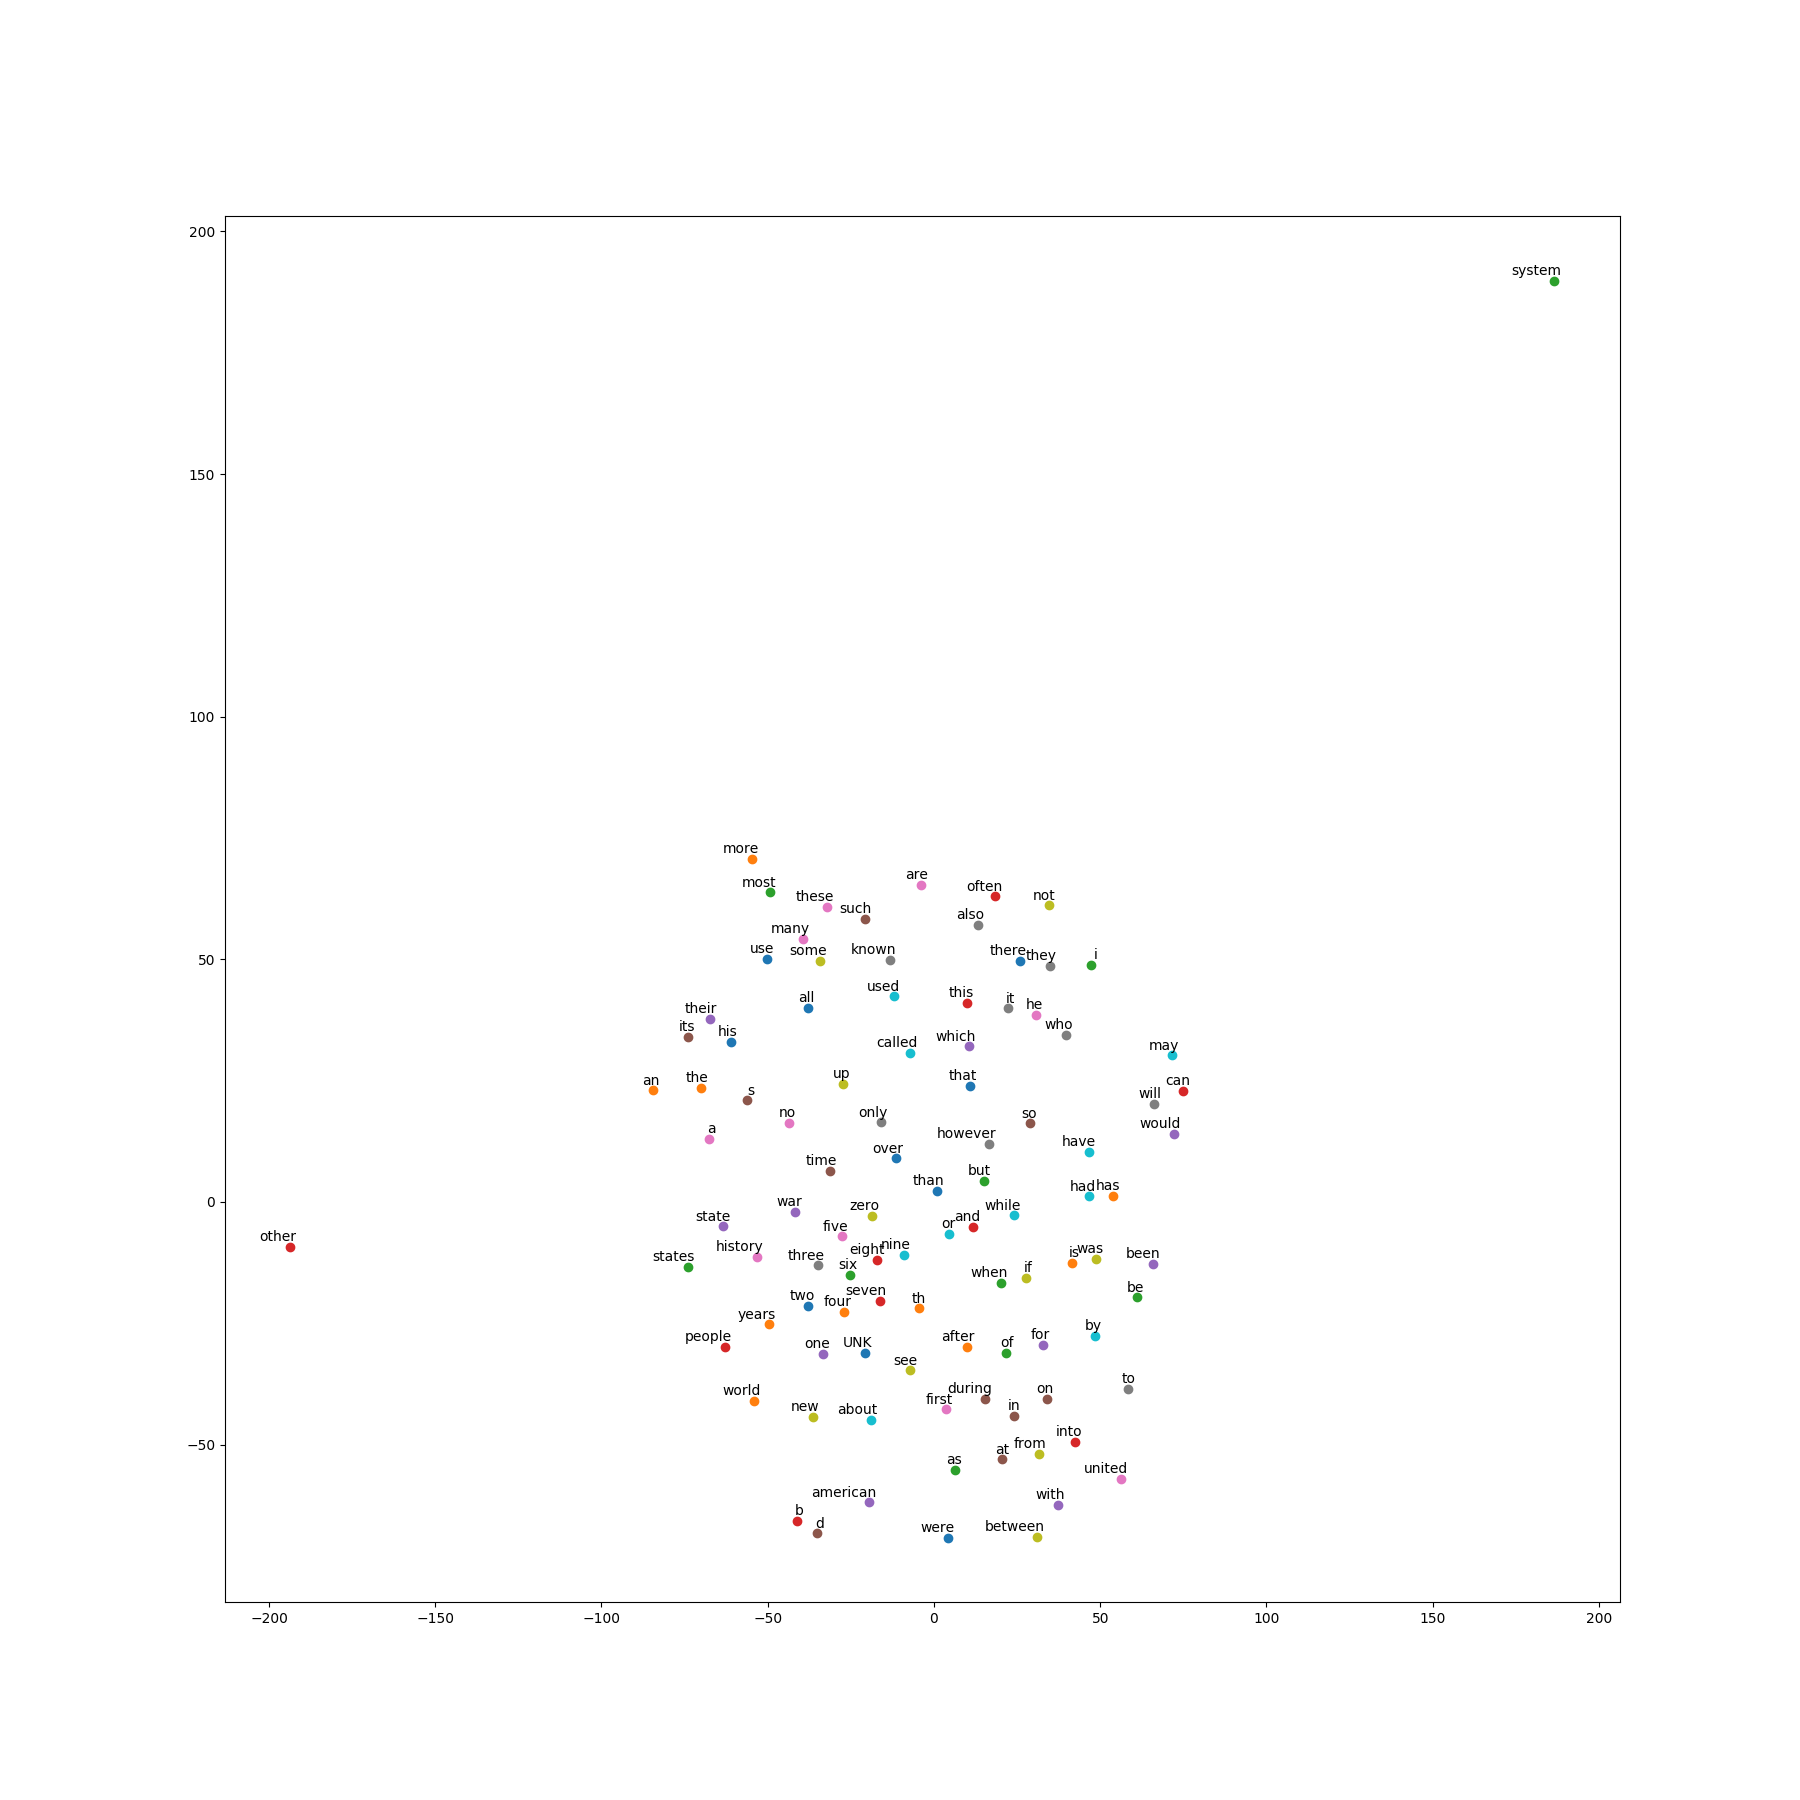
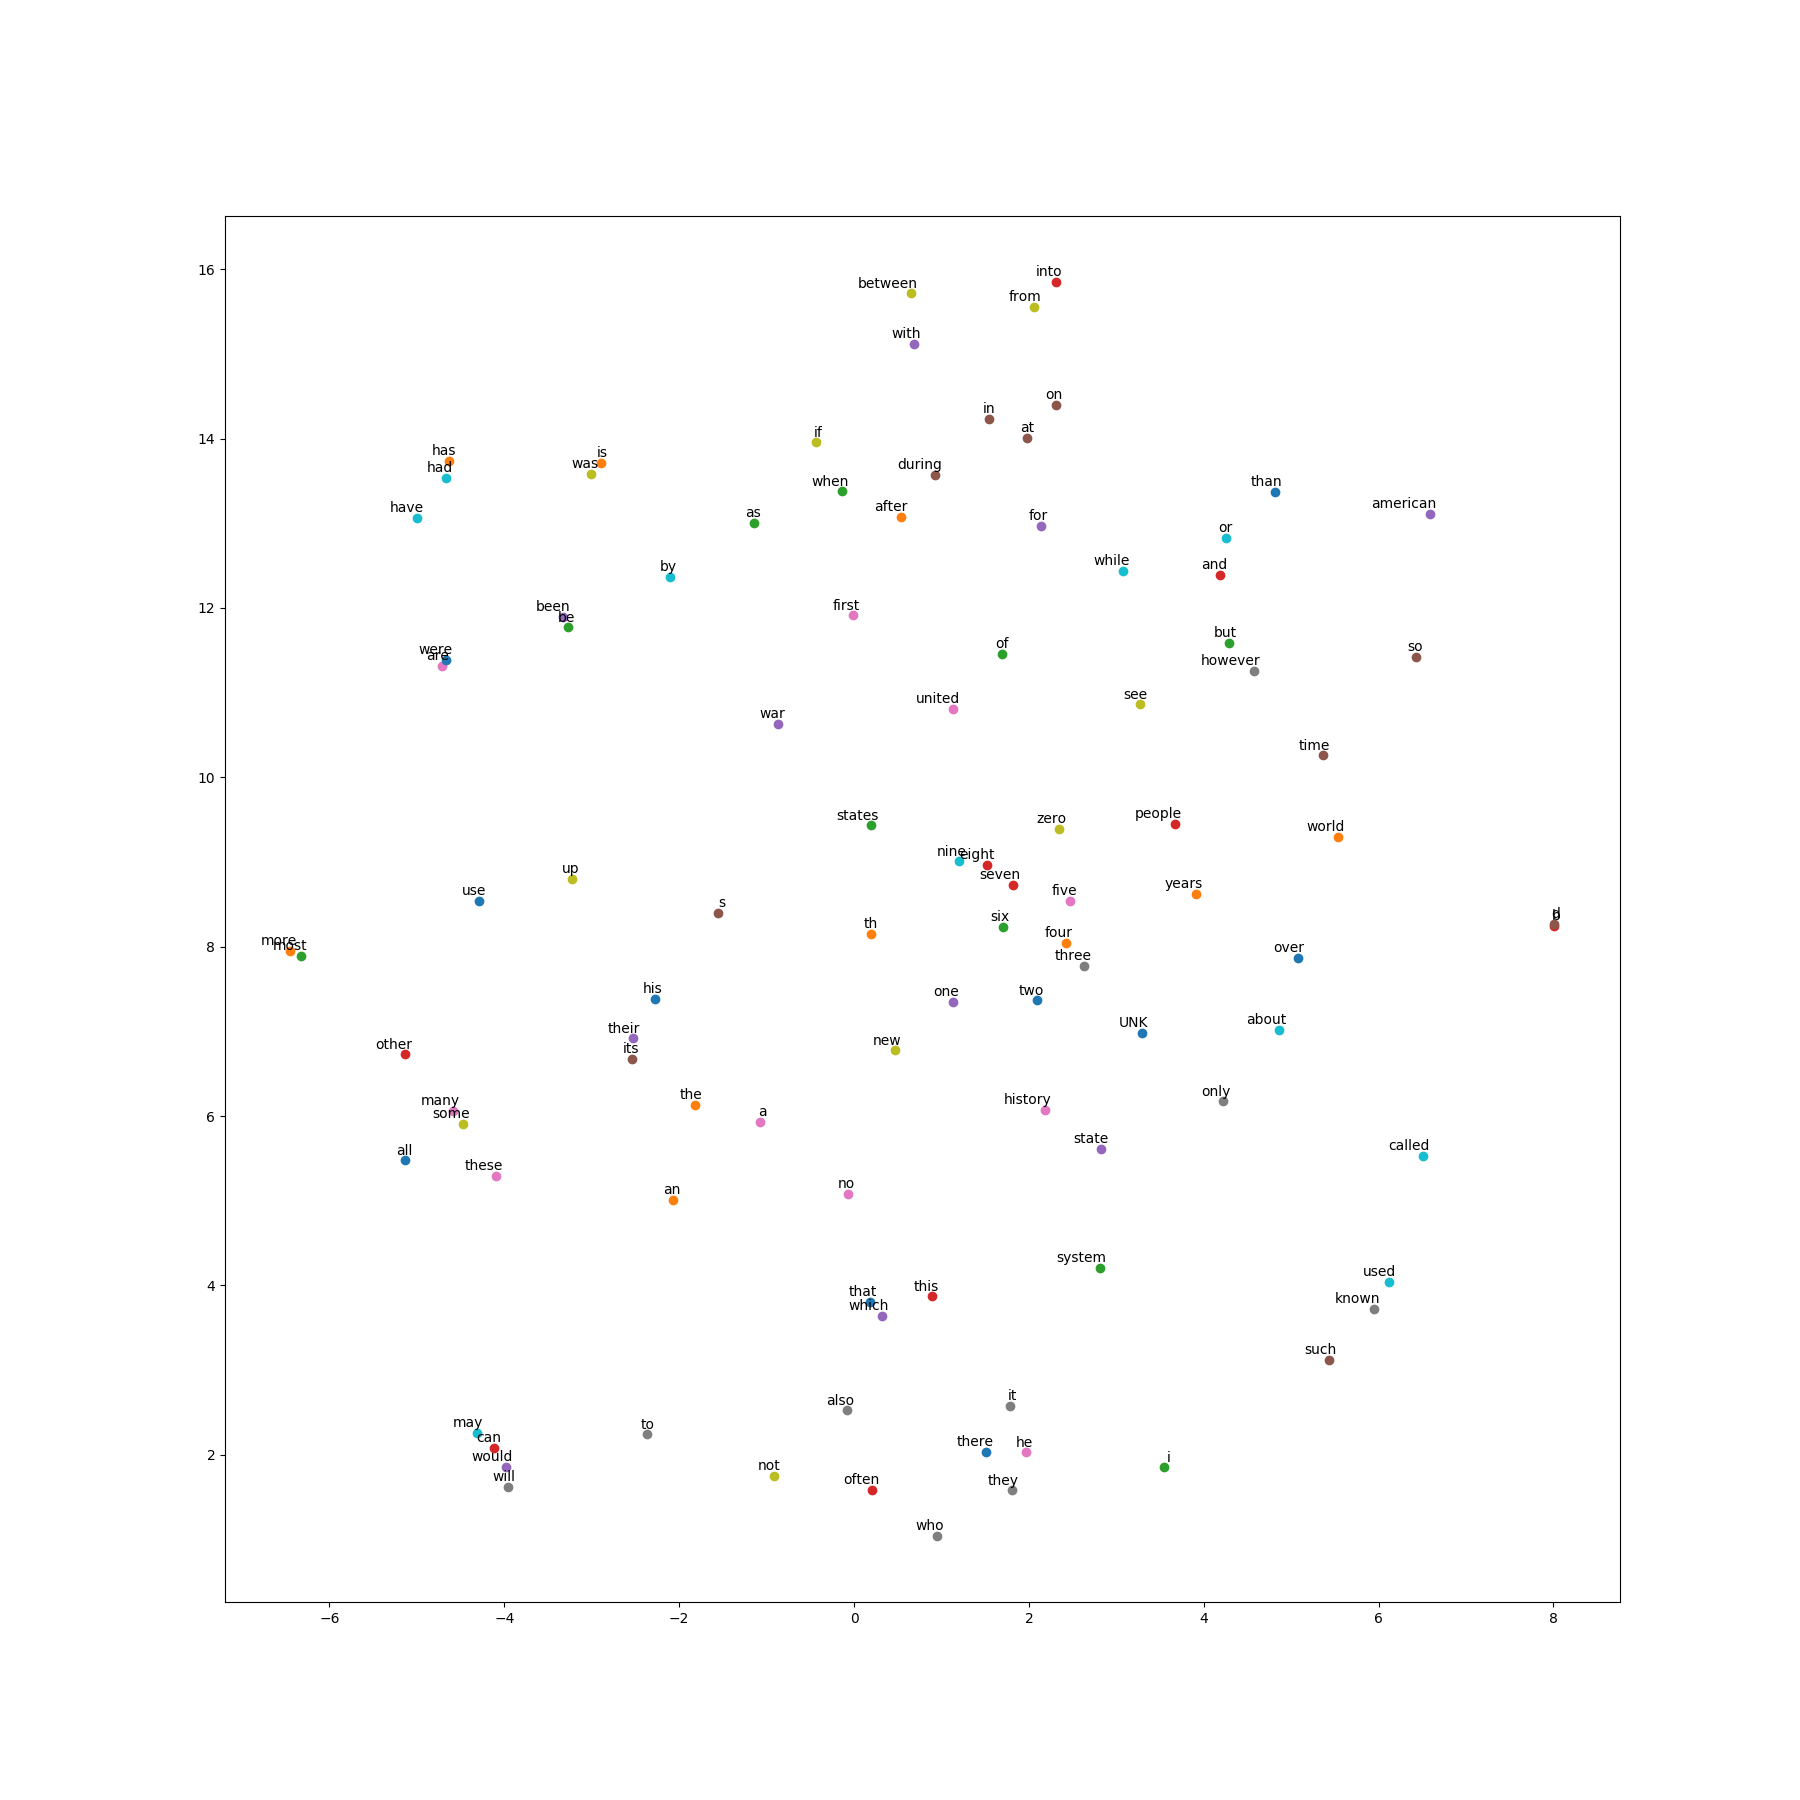
bkp @20180125

diff --git a/word2vec_test.py b/word2vec_test.py
@@ -1,8 +1,6 @@
 #!/usr/bin/python3
 #coding:utf-8
 
-#因为要下载数据，所以导入的依赖库比较多
-#import tkinter
 import collections
 import math 
 import os
@@ -14,35 +12,15 @@ import tensorflow as tf
 from sklearn.manifold import TSNE
 import matplotlib.pyplot as plt
 
-
-
-#这边是python版本的一个检查，不同版本对应函数调用的接口是不一样的
-if sys.version_info[0] >= 3:
-    from urllib.request import urlretrieve
-else:
-    from urllib import urlretrieve
-
-#从网址下载数据并检查数据的准确性
-url = 'http://mattmahoney.net/dc/'
-
-def maybe_download(filename, excepted_bytes):
-    if not os.path.exists(filename):
-        filename, _ = urlretrieve(url + filename, filename)
-    statinfo = os.stat(filename)
-    if statinfo.st_size == excepted_bytes:
-        print("Found and verified", filename)
-
-    else:
-        print(statinfo.st_size)
-        raise Exception(
-            "Failed to verfy" + filename + "Can you get to it with browser?")
-    return filename
-filename = maybe_download('text8.zip', 31344016)
-
+filename = 'company_name_words3.txt'
 #定义读取数据的函数，并把数据转成列表
 def read_data(filename):
-    with zipfile.ZipFile(filename) as f:
-        data = tf.compat.as_str(f.read(f.namelist()[0])).split() # .split() 默认以空格分割字符串为数组
+    #with zipfile.ZipFile(filename) as f:
+    data = []
+    with open(filename) as f:
+        #data = tf.compat.as_str(f.read(f.namelist()[0])).split() # .split() 默认以空格分割字符串为数组
+        for row in f.readlines():
+            data.extend(row.split())
     return data
 
 words = read_data(filename)
@@ -73,6 +51,11 @@ data, count, dictionary, reverse_dictionary = build_dataset(words)
 
 #为了节约内存删除原始单词列表，打印出最高频出现的词汇及其数量
 del words
+
+# 保存字典　<index word>
+with open(os.path.join('dict','words.dict'),"w",encoding='utf-8') as f:
+    f.write(str(reverse_dictionary))
+
 print ('Most common words (+UNK)', count[:5])
 print('Sample data', data[:10], [reverse_dictionary[i] for i in data[:10]])
 
@@ -129,7 +112,7 @@ with graph.as_default():
 
     with tf.device('/cpu:0'):
         embeddings = tf.Variable(
-            tf.random_uniform([vocabulary_size, embedding_size], -1.0, 1.0))
+            tf.random_uniform([vocabulary_size, embedding_size], -1.0, 1.0), name='embeddings') # add name
         embed = tf.nn.embedding_lookup(embeddings, train_inputs)
 
         nce_weights = tf.Variable(
@@ -154,10 +137,14 @@ with graph.as_default():
 
 
 #定义最大迭代次数，创建并设置默认的session
-num_steps = 100001
+#num_steps = 100001
+num_steps = 70001
 
 with tf.Session(graph = graph) as session:
     init.run()
+
+    #tensorflow存储
+    saver = tf.train.Saver()
     print("Initialized")
 
     average_loss = 0
@@ -173,6 +160,8 @@ with tf.Session(graph = graph) as session:
                 average_loss /= 2000
             print("Average loss at step ", step, ":", average_loss)
             average_loss = 0
+	    # 保存 tesorflow 模型结果
+            save_path =  saver.save(session,os.path.join('model','model.w2c'),global_step=step)
 
         if step % 10000 == 0:
             sim = similarity.eval()
@@ -188,7 +177,7 @@ with tf.Session(graph = graph) as session:
     final_embeddings = normalized_embeddings.eval()
 
 #定义可视化Word2Vec效果的函数
-def plot_with_labels(low_dim_embs, labels, filename = 'tsne.png'):
+def plot_with_labels(low_dim_embs, labels, filename = 'tsne_company_nm.png'):
     assert low_dim_embs.shape[0] >= len(labels), "More labels than embeddings"
     plt.figure(figsize= (18, 18))
     for i, label in enumerate(labels):
@@ -197,8 +186,11 @@ def plot_with_labels(low_dim_embs, labels, filename = 'tsne.png'):
         plt.annotate(label, xy = (x, y), xytext= (5, 2), textcoords = 'offset points', ha = 'right', va = 'bottom')
     plt.savefig(filename) 
 
+plt.rcParams['font.sans-serif'] = ['YaHei Consolas Hybrid']
+plt.rcParams['axes.unicode_minus'] = False # 解决保存图像是负号'-'显示为方块的问题
+
 tsne = TSNE(perplexity = 30, n_components = 2, init = 'pca', n_iter = 5000)
-plot_only = 100
+plot_only = 1000
 low_dim_embs = tsne.fit_transform(final_embeddings[:plot_only, :])
 labels = [reverse_dictionary[i] for i in range(plot_only)]
 plot_with_labels(low_dim_embs, labels)

diff --git a/loadw2c.py b/loadw2c.py
@@ -1,0 +1,54 @@
+#!/usr/bin/env python
+# -*- coding: utf-8 -*-
+import os
+import tensorflow as tf
+from tensorflow.python.tools.inspect_checkpoint import print_tensors_in_checkpoint_file
+from six.moves import xrange 
+with open(os.path.join('voc','vocabulary.dic'),"r",encoding='utf-8') as f:
+    voc = f.read()
+    
+#print(voc)
+reverse_dictionary = eval(voc)
+print(type(reverse_dictionary))
+#print(voc)
+#embeddings = tf.Variable(tf.random_uniform([len(reverse_dictionary), 128], -1.0, 1.0),name = 'embeddings')
+print_tensors_in_checkpoint_file("./model/model.w2c-400000", None, True)
+checkpoint_file = tf.train.get_checkpoint_state("model")
+saver = tf.train.import_meta_graph(checkpoint_file.model_checkpoint_path +".meta")
+with tf.Session() as sess:
+    # Load the saved meta graph and restore variables
+    #print("{}.meta".format(checkpoint_file))
+    saver.restore(sess, checkpoint_file.model_checkpoint_path)
+    #print(saver)
+    final_embeddings = sess.run('embeddings:0')
+        
+        
+
+def plot_with_labels(low_dim_embs, labels, filename='tsne.png'):
+    assert low_dim_embs.shape[0] >= len(labels), 'More labels than embeddings'
+    plt.figure(figsize=(18, 18))  # in inches
+    for i, label in enumerate(labels):
+        x, y = low_dim_embs[i, :]
+        plt.scatter(x, y)
+        plt.annotate(label,
+                     xy=(x, y),
+                     xytext=(5, 2),
+                     textcoords='offset points',
+                     ha='right',
+                     va='bottom')
+        
+    plt.savefig(filename)
+
+# pylint: disable=g-import-not-at-top
+from sklearn.manifold import TSNE
+import matplotlib.pyplot as plt
+import matplotlib
+from pylab import mpl
+mpl.rcParams['font.sans-serif'] = ['FangSong'] # 指定默认字体
+mpl.rcParams['axes.unicode_minus'] = False # 解决保存图像是负号'-'显示为方块的问题
+#zhfont1 = matplotlib.font_manager.FontProperties(fname='C:\Windows\Fonts\msyh.ttc')
+tsne = TSNE(perplexity=30, n_components=2, init='pca', n_iter=5000)
+plot_only = 500
+low_dim_embs = tsne.fit_transform(final_embeddings[:plot_only, :])
+labels = [reverse_dictionary[i] for i in xrange(plot_only)]
+plot_with_labels(low_dim_embs, labels)

diff --git a/cal_sim.py b/cal_sim.py
@@ -1,0 +1,64 @@
+import os
+import jieba
+import tensorflow as tf
+import scipy
+import csv
+#from tensorflow.python.tools.inspect_checkpoint import print_tensors_in_checkpoint_file
+
+def get_features(s):
+	seg_list = jieba.cut(s)	
+	return seg_list
+
+with open(os.path.join('dict','words.dict'),"r",encoding='utf-8') as f:
+    words_dict = f.read()
+    
+reverse_dictionary = eval(words_dict)
+dictionary = {v: k for k, v in reverse_dictionary.items()}
+
+#print_tensors_in_checkpoint_file("./model/model.w2c-70000", None, True)
+checkpoint_file = tf.train.get_checkpoint_state("model")
+saver = tf.train.import_meta_graph(checkpoint_file.model_checkpoint_path +".meta")
+with tf.Session() as sess:
+    saver.restore(sess, checkpoint_file.model_checkpoint_path)
+    final_embeddings = sess.run('embeddings:0')
+        
+def list_avg(l):
+	return 
+
+def get_word_vect(name):
+	vec = []
+	for w in get_features(name):
+		if w in dictionary:
+			#print(dictionary[w])
+			idx = dictionary[w]
+		else:
+			#print(dictionary['UNK'])
+			idx = dictionary['UNK']
+	
+		#print(final_embeddings[idx,:])
+		#print(type(final_embeddings[idx,:]))
+		#print(final_embeddings[idx,:].size)
+		vec.append([ x for x in final_embeddings[idx,:] ])
+	
+	return [ sum(x)/float(len(x)) for x in list(map(list, zip(*vec))) ]
+
+def print_cos(a,b):
+	a_v = get_word_vect(a)
+	b_v = get_word_vect(b)
+	
+	print(a)
+	print(b)
+	print(scipy.spatial.distance.cosine(a_v ,b_v))
+	
+company_csv = csv.reader(open('/home/mark/export.csv'), delimiter=',', quotechar='"')
+
+last_credit_cd = ''
+
+for row in company_csv:
+	#print(row)
+	if row[3] == last_credit_cd:
+		print_cos(row[0], last_row[0])		
+	last_row = row
+	last_credit_cd = row[3]
+
+

diff --git a/font_test.py b/font_test.py
@@ -1,0 +1,14 @@
+from matplotlib.font_manager import FontManager
+import subprocess
+fm = FontManager()
+mat_fonts = set(f.name for f in fm.ttflist)
+output = subprocess.check_output(
+    'fc-list :lang=zh -f "%{family}\n"', shell=True)
+output = output.decode('utf-8')
+# print '*' * 10, '系统可用的中文字体', '*' * 10
+# print output
+zh_fonts = set(f.split(',', 1)[0] for f in output.split('\n'))
+available = mat_fonts & zh_fonts
+print('*' * 10, '可用的字体', '*' * 10)
+for f in available:
+    print(f)

diff --git a/font_test2.py b/font_test2.py
@@ -1,0 +1,12 @@
+import matplotlib.pyplot as plt
+plt.rcParams['font.sans-serif'] = ['YaHei Consolas Hybrid']
+#plt.rcParams['font.sans-serif'] = ['SimHei'] # 指定默认字体
+plt.rcParams['axes.unicode_minus'] = False # 解决保存图像是负号'-'显示为方块的问题
+  
+t =  1
+y =  2
+plt.plot(t, y) 
+plt.title(u'这里写的是中文')  
+plt.xlabel(u'X坐标')  
+plt.ylabel(u'Y坐标')  
+plt.show()
